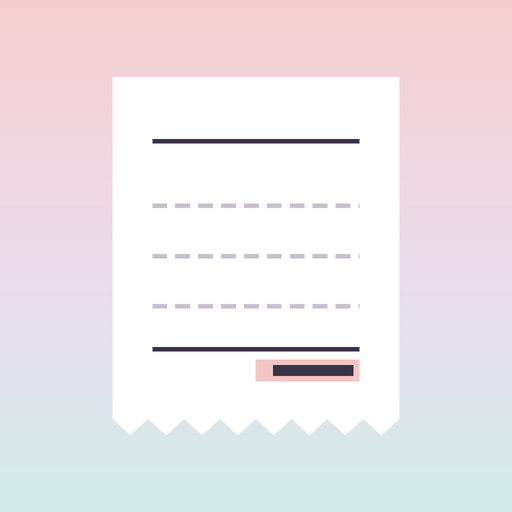
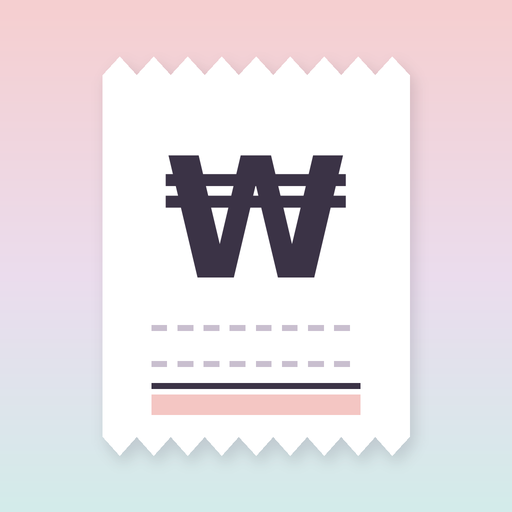
nono 4차: 해지 알림, 페이 칸, 금액 크게, 연 단위 날짜, 흐린 표시, 새 아이콘
Claude-Session: https://claude.ai/code/session_017xK88jtzivaej2xvhQo6jq

Changed region(s): [[0.1875, 0.0938, 0.8125, 0.9062], [0.2812, 0.25, 0.7188, 0.5625]]

diff --git a/index.html b/index.html
@@ -22,7 +22,7 @@ button{cursor:pointer;background:none;border:none;padding:0;border-radius:0}
 button:disabled{cursor:default}
 input{border:none;outline:none;background:transparent;padding:0;border-radius:0;min-width:0}
 input:disabled{color:var(--dash)}
-input::placeholder{color:var(--faint)}
+input::placeholder{color:#C4BCCB}
 [hidden]{display:none!important}
 .mono{font-family:var(--mono)}
 #app{max-width:480px;margin:0 auto;min-height:100vh;min-height:100dvh;position:relative;padding-bottom:calc(76px + env(safe-area-inset-bottom,0px))}
@@ -48,11 +48,11 @@ mask-position:top,center,bottom;mask-repeat:round no-repeat,no-repeat,round no-r
 .bt{text-align:center;font-family:var(--mono);font-size:12px;letter-spacing:3px;margin-bottom:12px}
 .bd{display:table;margin:0 auto;font-family:var(--mono);font-size:12px;color:var(--sub);position:relative;padding:0 3px}
 .bd.past{background:var(--hl);color:var(--ink)}
-.big{display:flex;justify-content:center;align-items:baseline;gap:4px;padding:8px 0 2px;min-height:62px}
-.big input{font-family:var(--mono);font-size:40px;font-weight:600;text-align:center;max-width:100%;height:52px}
-.big input:placeholder-shown{font-family:var(--sans);font-size:17px;font-weight:400;width:100%!important}
+.big{display:flex;justify-content:center;align-items:baseline;gap:6px;padding:10px 0 4px;min-height:86px}
+.big input{font-family:var(--mono);font-size:58px;font-weight:600;letter-spacing:-2px;text-align:center;max-width:100%;height:76px}
+.big input:placeholder-shown{font-family:var(--sans);font-size:22px;font-weight:500;letter-spacing:0;width:100%!important}
 .big input:placeholder-shown+span{display:none}
-.big span{font-size:17px}
+.big span{font-size:22px;font-weight:600}
 .cut{border-top:1px dashed var(--ink);margin:14px 0 4px}
 .types{display:flex;justify-content:space-between;gap:4px;padding:6px 0;border-bottom:1px solid var(--ink)}
 .types button{height:40px;padding:0 4px;font-size:14px;color:var(--sub)}
@@ -110,8 +110,10 @@ mask-position:top,center,bottom;mask-repeat:round no-repeat,no-repeat,round no-r
 .row .s{display:block;font-size:12px;color:var(--sub);margin-top:1px}
 .row .a{font-family:var(--mono);font-size:15px;font-weight:600;white-space:nowrap;text-align:right}
 .row .a small{display:block;font-family:var(--sans);font-size:12px;font-weight:400;margin-top:1px}
-.row .d{font-family:var(--mono);font-size:14px;font-weight:600;width:34px;flex:none}
-.row.mv .a,.row.off,.row.off .s{color:var(--faint)}
+.row .d{font-family:var(--mono);font-size:15px;font-weight:600;width:36px;flex:none;line-height:1.1}
+.row .d small{display:block;font-family:var(--sans);font-size:11px;font-weight:500;color:var(--sub)}
+.row.mv .a{color:var(--faint)}
+.row.off{opacity:.38}
 /* 한 줄 목록: 종류｜이름 ······ 금액 */
 .ln{display:flex;align-items:center;min-height:46px;gap:6px}
 .ln .ck{width:30px;height:46px;flex:none;display:flex;align-items:center;justify-content:flex-start}
@@ -217,6 +219,7 @@ const TL={지출:'지출',수입:'수입',이체:'이체',돌려받음:'회수'}
 const KINDS=['계좌','카드','대출'];
 /* 예전 종류 이름은 읽을 때 새 이름으로 */
 const KIND=k=>({예금계좌:'계좌',주식계좌:'계좌',현금:'계좌',기타:'계좌',체크카드:'카드',신용카드:'카드'})[k]||k;
+const PAYS=[['','없음'],['네이버페이','네이버페이'],['카카오페이','카카오페이'],['토스페이','토스페이']];
 const INSTS=[[null,'일시불'],[2,'2'],[3,'3'],[6,'6'],[12,'12개월']];
 const TINT=['#F4C6C3','#E3D5EC','#A8DCDE','#F7DCD7','#CFEBEA','#E5E7CB','#C9BFCF','#F2D7B6','#D6E4F5','#EBC9D9'];
 const DEF_OUT=['식비','카페·디저트','장보기','교통','쇼핑','구독','생활','이자','기타'],DEF_IN=['원고료','기타 수입'];
@@ -260,7 +263,7 @@ async function refresh(first){
   try{await loadBase();await stampDue();await loadTx()}
   catch(e){toast(e.message);if(/로그인/.test(e.message)){await Core.logout();show()}return}
   render();
-  if(first)askSoon();
+  if(first)alertSoon();
 }
 
 /* ---------- 정기결제: 날짜 계산·자동 찍기 ---------- */
@@ -288,21 +291,21 @@ async function stampDue(){
     const from=r.last_on?nextDay(r.last_on):r.start_on;if(from>t)continue;
     const ds=dueDates(r,from,t);
     if(!await claim(r,t)||!ds.length)continue;
-    await q('nono_tx',{method:'POST',headers:{Prefer:'return=minimal'},body:JSON.stringify(ds.map(d=>({day:d,type:'지출',amount:r.amount,vendor:r.vendor||r.name,category_id:r.category_id,account_id:r.account_id,recurring_id:r.id})))});
+    await q('nono_tx',{method:'POST',headers:{Prefer:'return=minimal'},body:JSON.stringify(ds.map(d=>({day:d,type:'지출',amount:r.amount,vendor:r.vendor||r.name,category_id:r.category_id,account_id:r.account_id,via:r.via||null,recurring_id:r.id})))});
     n+=ds.length;
   }
   if(n)toast(`정기결제 ${n}건을 찍었어요`);
 }
 function nextDue(r){const t=today(),from=r.last_on&&r.last_on>=t?nextDay(r.last_on):nextDay(t);return dueDates(r,from,addDays(t,120))[0]||null}
-/* 결제일 3일 전: 앱을 열 때 유지할지 물어보기 (한 번 답하면 그 회차는 다시 안 물음) */
-function askSoon(){
-  const lim=addDays(today(),3);
-  S.asks=S.rec.filter(r=>r.active).map(r=>({r,d:nextDue(r)})).filter(x=>x.d&&x.d<=lim&&!LS.get(`ask:${x.r.id}:${x.d}`));
+/* 해지 알림: 알림을 켠 정기결제만, 다음 결제 이틀 전부터 앱을 열면 한 번 팝업 (본 회차는 서버 alerted_on에 기억) */
+function alertSoon(){
+  const lim=addDays(today(),2);
+  S.asks=S.rec.filter(r=>r.active&&r.cancel_alert).map(r=>({r,d:nextDue(r)})).filter(x=>x.d&&x.d<=lim&&x.r.alerted_on!==x.d);
   if(S.asks.length&&!S.pop)openPop({k:'ask'});
 }
 
 /* ---------- 입력 양식 (Quick·Month 새 기록·수정이 같이 씀) ---------- */
-const blank=()=>({type:'지출',day:today(),amount:'',vendor:'',cat:null,acct:LS.get('acct',null),to:null,inst:null,back:'',parent:null,memo:'',add:null,addKind:'카드',touched:false});
+const blank=()=>({via:'',type:'지출',day:today(),amount:'',vendor:'',cat:null,acct:LS.get('acct',null),to:null,inst:null,back:'',parent:null,memo:'',add:null,addKind:'카드',touched:false});
 let F=blank();
 function accLabel(id){const a=accOf(id);return a?a.name:'—'}
 function chipList(list,cur,key,extra='',dis){
@@ -314,7 +317,9 @@ function addRow(f,key){
     (key==='cat'?'':`<div class="kinds">${['계좌','카드'].map(k=>`<button type="button" data-akind="${k}" class="${f.addKind===k?'on':''}">${k}</button>`).join('')}</div>`)+`</div>`;
 }
 const amtW=v=>v?(String(v).length+.4)+'ch':'100%';
-function bigAmt(f,pre){const v=f.amount?fmt(f.amount):'';return `<div class="big"><input id="${pre}-amt" data-in="amount" inputmode="numeric" placeholder="금액을 입력하세요." aria-label="금액" value="${v}" style="width:${amtW(v)}"><span>원</span></div>`}
+/* Quick 금액: 길어지면 글자를 조금씩 줄여 한 줄에 */
+const amtFS=(v,pre)=>pre!=='q'||!v?'':(String(v).length<=9?58:String(v).length<=11?48:40)+'px';
+function bigAmt(f,pre){const v=f.amount?fmt(f.amount):'';return `<div class="big"><input id="${pre}-amt" data-in="amount" inputmode="numeric" placeholder="금액을 입력하세요." aria-label="금액" value="${v}" style="width:${amtW(v)};font-size:${amtFS(v,pre)}"><span>원</span></div>`}
 function fieldsHtml(f,pre,quick){
   const t=f.type,keep=a=>a.id===f.acct||a.id===f.to;
   const acc=accsSorted().filter(a=>quick?(inQuick(a)||keep(a)):true).map(a=>[a.id,a.name]);
@@ -334,6 +339,7 @@ function fieldsHtml(f,pre,quick){
   const al=quick?'계좌':{지출:'계좌',수입:'들어온 곳',이체:'보낸 곳',돌려받음:'받은 곳'}[t];
   h+=`<div class="fr top"><span class="k">${al}</span><div class="chips">${chipList(acc,f.acct,'acct')}${addRow(f,'acct')}</div></div>`;
   if(t==='이체')h+=`<div class="fr top"><span class="k">받은 곳</span><div class="chips">${chipList(acc.filter(x=>x[0]!==f.acct),f.to,'to')}</div></div>`;
+  h+=`<div class="fr top"><span class="k">페이</span><div class="chips">${chipList(PAYS,f.via||'','via')}</div></div>`;
   if(card)h+=`<div class="fr"><span class="k">할부</span><div class="chips">${chipList(INSTS,f.inst,'inst','mono')}</div></div>`;
   if(t==='지출')h+=`<div class="fr"><label for="${pre}-back">미수금</label><input id="${pre}-back" class="mono" data-in="back" inputmode="numeric" value="${f.back?fmt(f.back):''}" placeholder="없으면 비워두기"></div>`;
   h+=`<div class="fr"><label for="${pre}-memo">메모</label><input id="${pre}-memo" data-in="memo" value="${esc(f.memo)}" placeholder="입력"></div>`;
@@ -357,7 +363,7 @@ function bindForm(box,f,re,amtId){
     const i=e.target,k=i.dataset.in;if(!k)return;
     if(k==='amount'||k==='back'){const d=i.value.replace(/\D/g,'').slice(0,12);f[k]=d;i.value=d?fmt(d):''}
     else f[k]=i.value;
-    if(k==='amount')i.style.width=amtW(i.value);
+    if(k==='amount'){i.style.width=amtW(i.value);i.style.fontSize=amtFS(i.value,i.id.split('-')[0])}
     if(k==='vendor')sug.open(i,f,re);
   });
   box.addEventListener('keydown',async e=>{
@@ -403,7 +409,7 @@ const sug={box:$('#sug'),list:[],i:-1,f:null,re:null,
     if(e.key==='Enter'&&this.i>=0){e.preventDefault();this.pick(this.list[this.i]);return true}
     if(e.key==='Escape'){this.close();return true}return false},
   pick(k){const f=this.f,v=S.vend.get(k);f.vendor=k;
-    if(v&&f.type!=='이체'&&v.type===f.type){if(!f.touched&&v.category_id&&catOf(v.category_id))f.cat=v.category_id;if(v.account_id&&accOf(v.account_id))f.acct=v.account_id}
+    if(v&&f.type!=='이체'&&v.type===f.type){if(!f.touched&&v.category_id&&catOf(v.category_id))f.cat=v.category_id;if(v.account_id&&accOf(v.account_id))f.acct=v.account_id;f.via=v.via||''}
     this.close();this.re()},
   close(){this.box.hidden=true;this.list=[]}};
 sug.box.addEventListener('pointerdown',e=>{e.preventDefault();const b=e.target.closest('[data-j]');if(b)sug.pick(sug.list[+b.dataset.j])});
@@ -417,7 +423,7 @@ function toRow(f){
   const a=accOf(f.acct);
   return{day:f.day,type:t,amount,vendor:f.vendor.trim()||null,
     category_id:t==='이체'?null:(par?par.category_id||null:f.cat),
-    account_id:f.acct,to_account_id:t==='이체'?f.to:null,
+    account_id:f.acct,to_account_id:t==='이체'?f.to:null,via:t==='지출'||t==='돌려받음'?(f.via||null):null,
     inst:t==='지출'&&a&&a.kind==='카드'&&f.inst>1?f.inst:null,
     back:t==='지출'?Math.min(num(f.back),amount):0,
     parent_id:t==='돌려받음'?(f.parent||null):null,memo:f.memo.trim()||null};
@@ -474,7 +480,7 @@ const short=v=>v>=10000?Math.round(v/10000)+'만':fmt(v);
 function catColor(id){const c=catOf(id);if(!c)return '#DDD5E0';return TINT[catsOf(c.kind).indexOf(c)%TINT.length]}
 function metaOf(r){
   const c=catOf(r.category_id),p=r.parent_id&&txOf(r.parent_id),rc=r.recurring_id&&recOf(r.recurring_id);
-  return [r.type==='이체'?`${accLabel(r.account_id)} → ${accLabel(r.to_account_id)}`:'',c?c.name:'',r.type!=='이체'?accLabel(r.account_id):'',r.inst>1?r.inst+'개월 할부':'',p?'← '+(p.vendor||'지출'):'',r.type==='돌려받음'&&!p?'회수':'',rc?'정기결제':''].filter(Boolean).join(' · ');
+  return [r.type==='이체'?`${accLabel(r.account_id)} → ${accLabel(r.to_account_id)}`:'',c?c.name:'',r.type!=='이체'?accLabel(r.account_id):'',r.via||'',r.inst>1?r.inst+'개월 할부':'',p?'← '+(p.vendor||'지출'):'',r.type==='돌려받음'&&!p?'회수':'',rc?'정기결제':''].filter(Boolean).join(' · ');
 }
 const sign=r=>r.type==='수입'||r.type==='돌려받음'?'+':'';
 const amtText=r=>r.amount==null?'금액?':sign(r)+fmt(r.amount);
@@ -499,7 +505,7 @@ function moveMonth(n){
 
 /* ---------- Subscript ---------- */
 const EVERY={월:'매월',격월:'격월',년:'매년'};
-function recWhen(r){return r.every==='년'?`${r.month||'?'}.${r.day===0?'말일':r.day}`:(r.day===0?'말일':String(r.day).padStart(2,'0'))}
+function recWhen(r){const d=r.day===0?'말일':String(r.day).padStart(2,'0');return r.every==='년'?`<small>${r.month||'?'}월</small>${d}`:d}
 function everyText(r){return r.every==='격월'?`격월(${(r.month||1)%2?'홀수':'짝수'} 달)`:EVERY[r.every]||'매월'}
 function recStatus(r){
   const ym=today().slice(0,7),t=today(),y=+ym.slice(0,4),m=+ym.slice(5);
@@ -508,7 +514,7 @@ function recStatus(r){
   if(tx)return tx.amount==null?['금액 채우기',1]:['이번 달 찍힘',0];
   if(!hits(r,y,m)){const n=nextDue(r);return[n?+n.slice(5,7)+'월에':'—',0]}
   const ds=dueDates(r,ym+'-01',ym+'-31');
-  if(ds.length&&ds[0]>t)return[r.last_on&&r.last_on>=ds[0]?'이번만 건너뜀':md(ds[0])+' 예정',0];
+  if(ds.length&&ds[0]>t)return[md(ds[0])+' 예정',0];
   return['—',0];
 }
 function renderS(){
@@ -519,7 +525,7 @@ function renderS(){
     <div class="sum"><div><div>매달 고정액</div><div>${fmt(fixed)}</div></div><div><div>금액 변동</div><div>${vary}<small>건</small></div></div></div>
     <div class="cut"></div>
     ${list.map(r=>{const [st,h]=recStatus(r);
-      return `<button class="row ${r.active?'':'off'}" data-rec="${r.id}"><span class="d">${recWhen(r)}</span><span class="t"><span class="v">${esc(r.name)}</span><span class="s">${esc([everyText(r),r.account_id?accLabel(r.account_id):''].filter(Boolean).join(' · '))}</span></span><span class="a">${r.amount==null?'변동':fmt(r.amount)}<small>${h?`<span class="hlw">${st}</span>`:st}</small></span></button>`}).join('')||'<div class="empty">정기결제가 없어요</div>'}
+      return `<button class="row ${r.active?'':'off'}" data-rec="${r.id}"><span class="d">${recWhen(r)}</span><span class="t"><span class="v">${esc(r.name)}</span><span class="s">${esc([everyText(r),r.account_id?accLabel(r.account_id):'',r.via,r.cancel_alert&&r.active?'해지 알림':''].filter(Boolean).join(' · '))}</span></span><span class="a">${r.amount==null?'변동':fmt(r.amount)}<small>${h?`<span class="hlw">${st}</span>`:st}</small></span></button>`}).join('')||'<div class="empty">정기결제가 없어요</div>'}
     <button class="sub" data-rec="">ADD</button>`);
 }
 
@@ -570,7 +576,7 @@ async function reorder(list,id,dir,table){
 
 /* ---------- 팝업 ---------- */
 function openPop(p){S.pop=p;drawPop();$('#ov').hidden=false;$('#ov').scrollTop=0}
-function closePop(){const k=S.pop&&S.pop.k;S.pop=null;$('#ov').hidden=true;sug.close();if(k==='ask')setTimeout(askSoon,0)}
+function closePop(){S.pop=null;$('#ov').hidden=true;sug.close()}
 function drawPop(){const k=S.pop&&S.pop.k;({tx:drawTx,acc:drawAcc,rec:drawRec,cat:drawCat,ask:drawAsk})[k]()}
 const head=(l,btn)=>`<div class="strip"></div><div class="ch">${l}${btn||''}</div>`;
 const delBtn=attr=>`<button class="ic" ${attr} aria-label="삭제" title="삭제"><svg><use href="#i-del"/></svg></button>`;
@@ -583,6 +589,7 @@ function drawTx(){
     const par=r.parent_id&&txOf(r.parent_id),ks=kids(r.id);
     const fl=[['분류',(catOf(r.category_id)||{}).name||'—'],
       [r.type==='이체'?'보낸 곳 → 받은 곳':{지출:'계좌',수입:'들어온 곳',돌려받음:'받은 곳'}[r.type],r.type==='이체'?`${accLabel(r.account_id)} → ${accLabel(r.to_account_id)}`:accLabel(r.account_id)]];
+    if(r.via)fl.push(['페이',r.via]);
     if(r.inst>1)fl.push(['할부',r.inst+'개월']);
     if(r.type==='지출')fl.push(['미수금',r.back?`${fmt(r.back)} 중 ${fmt(got(r.id))} 받음`+(left(r)?` · <span class="hlw">${fmt(left(r))} 남음</span>`:''):(r.amount==null?'<span class="hlw">금액을 채워 주세요</span>':'—'),1]);
     ks.forEach(k=>fl.push(['회수',`${esc(k.vendor||'—')} · ${md(k.day)} · ${fmt(k.amount)}`,1]));
@@ -604,7 +611,7 @@ function drawTx(){
 }
 function txEdit(){
   const r=txOf(S.pop.id);
-  S.pop.f=Object.assign(blank(),{type:r.type,day:r.day,amount:r.amount==null?'':String(r.amount),vendor:r.vendor||'',cat:r.category_id,acct:r.account_id,to:r.to_account_id,inst:r.inst,back:r.back?String(r.back):'',parent:r.parent_id,memo:r.memo||'',touched:true,self:r.id});
+  S.pop.f=Object.assign(blank(),{type:r.type,day:r.day,amount:r.amount==null?'':String(r.amount),vendor:r.vendor||'',cat:r.category_id,acct:r.account_id,to:r.to_account_id,inst:r.inst,back:r.back?String(r.back):'',parent:r.parent_id,memo:r.memo||'',via:r.via||'',touched:true,self:r.id});
   drawTx();
 }
 async function txSave(){
@@ -690,19 +697,21 @@ function drawRec(){
     <div class="fr"><label for="r-ven">거래처</label><input id="r-ven" data-rf="vendor" value="${esc(f.vendor)}" placeholder="비우면 이름으로"></div>
     <div class="fr top"><span class="k">분류</span><div class="chips">${chipList(cats,f.category_id,'rcat')}</div></div>
     <div class="fr top"><span class="k">계좌</span><div class="chips">${chipList(acc,f.account_id,'racc')}</div></div>
+    <div class="fr top"><span class="k">페이</span><div class="chips">${chipList(PAYS,f.via||'','rvia')}</div></div>
     <div class="fr"><span class="k">주기</span><div class="chips">${chipList([['월','매월'],['격월','격월'],['년','매년']],f.every,'revery')}</div></div>`;
   if(f.every!=='월')h+=`<div class="fr"><label for="r-mon" style="width:120px">${f.every==='년'?'몇 월':'내는 달 하나'}</label><input id="r-mon" class="mono" data-rf="month" inputmode="numeric" value="${f.month||''}" placeholder="${f.every==='년'?'1~12':'예: 1 → 1·3·5…월'}"></div>`;
-  h+=`<div class="fr"><label for="r-day">며칠</label><input id="r-day" class="mono" data-rf="day" inputmode="numeric" value="${f.day&&!f.last?f.day:''}" placeholder="1~31"${f.last?' disabled':''}><div class="chips" style="flex:none;margin-left:6px">${chipList([[1,'말일']],f.last?1:'','rlast')}</div></div>
+  h+=`<div class="fr"><label for="r-day">며칠</label><input id="r-day" class="mono" data-rf="day" inputmode="numeric" value="${f.day||''}" placeholder="1~31"></div>
+    <div class="fr"><span class="k">해지 알림</span><div class="chips"><button type="button" data-pick="ralert" class="${f.cancel_alert?'on':''}">${f.cancel_alert?'✓ ':''}결제 이틀 전에 알려 주기</button></div></div>
     <div class="fr"><span class="k">상태</span><div class="chips">${chipList([[1,'켜 둠'],[0,'꺼 둠']],f.active?1:0,'ract')}</div></div>`;
   $('#card').innerHTML=head(`<span class="mono">${isNew?'새 정기결제':'정기결제'}</span>`,isNew?'':delBtn('data-rdel'))+
-    `<div class="eb">${h}<p class="note">${isNew?'내일부터 날짜가 되면 자동으로 찍혀요. 이번 달에 이미 지난 것은 Quick에서 적어 주세요.':'고쳐도 이미 찍힌 기록은 그대로예요.'} 결제일 3일 전에는 앱을 열 때 유지할지 물어봐요.</p>
+    `<div class="eb">${h}<p class="note">${isNew?'내일부터 날짜가 되면 자동으로 찍혀요. 이번 달에 이미 지난 것은 Quick에서 적어 주세요.':'고쳐도 이미 찍힌 기록은 그대로예요.'} 31일로 적으면 짧은 달은 마지막 날에 찍혀요.</p>
     <div class="two"><button class="sec" data-pclose>취소</button><button class="pri" data-rsave>저장</button></div></div>`;
 }
 async function recSave(){
   const f=S.pop.f,name=f.name.trim();if(!name){toast('이름을 넣어 주세요');return}
-  const day=f.last?0:num(f.day);if(!f.last&&(day<1||day>31)){toast('며칠인지 넣어 주세요 (1~31)');return}
+  const day=num(f.day);if(day<1||day>31){toast('며칠인지 넣어 주세요 (1~31)');return}
   const month=f.every==='월'?null:num(f.month);if(f.every!=='월'&&(month<1||month>12)){toast(f.every==='년'?'몇 월인지 넣어 주세요':'내는 달 하나를 넣어 주세요 (1~12)');return}
-  const row={name,vendor:f.vendor.trim()||null,amount:f.amount?num(f.amount):null,category_id:f.category_id||null,account_id:f.account_id||null,every:f.every,day,month,active:!!f.active};
+  const row={name,vendor:f.vendor.trim()||null,amount:f.amount?num(f.amount):null,category_id:f.category_id||null,account_id:f.account_id||null,via:f.via||null,every:f.every,day,month,active:!!f.active,cancel_alert:!!f.cancel_alert};
   try{
     if(S.pop.id)await q('nono_recurring?id=eq.'+S.pop.id,{method:'PATCH',body:JSON.stringify(row)});
     else{row.sort=nextSort(S.rec);row.start_on=nextDay(today());row.last_on=today();await q('nono_recurring',{method:'POST',headers:{Prefer:'return=minimal'},body:JSON.stringify(row)})}
@@ -714,24 +723,20 @@ async function recDel(){
   try{await q('nono_recurring?id=eq.'+r.id,{method:'DELETE'});S.rec=S.rec.filter(x=>x.id!==r.id);closePop();keepScroll(render)}catch(e){toast(e.message)}
 }
 
-/* 결제일 3일 전 물어보기 */
+/* 해지 알림 팝업 */
 function drawAsk(){
   const x=S.asks[0];if(!x){closePop();return}
   const r=x.r,n=Math.round((Date.parse(x.d)-Date.parse(today()))/864e5);
-  $('#card').innerHTML=head(`<span class="mono">곧 결제돼요 · ${md(x.d)} (${n===1?'내일':n+'일 뒤'})</span>`)+
+  $('#card').innerHTML=head(`<span class="mono">해지 알림 · ${md(x.d)} 결제 예정 (${n<=1?'내일':n+'일 뒤'})</span>`)+
     `<div class="vb"><div class="vn">${esc(r.name)}</div><div class="va">${r.amount==null?'변동':fmt(r.amount)+'원'}</div>
-    <div class="fl"><div><span>계좌</span><span>${esc(r.account_id?accLabel(r.account_id):'—')}</span></div><div><span>주기</span><span>${everyText(r)}</span></div></div>
-    <p class="q">이 정기결제를 계속 유지할까요?</p>
-    <div class="two t3"><button class="sec" data-ask="stop">해지</button><button class="sec" data-ask="skip">이번만 건너뛰기</button><button class="pri" data-ask="keep">유지</button></div></div>`;
+    <div class="fl"><div><span>계좌</span><span>${esc([r.account_id?accLabel(r.account_id):'—',r.via].filter(Boolean).join(' · '))}</span></div><div><span>주기</span><span>${everyText(r)}</span></div></div>
+    <p class="q">해지할 생각이었다면 결제일 전에 해지하세요.</p>
+    <div class="two"><button class="sec" data-ask="stop">해지했어요</button><button class="pri" data-ask="keep">계속 쓸게요</button></div></div>`;
 }
 async function answer(a){
-  const x=S.asks.shift(),r=x.r;
-  try{
-    if(a==='stop'){if(!confirm(`'${r.name}'을(를) 꺼 둘까요? (나중에 Subscript에서 다시 켤 수 있어요)`)){S.asks.unshift(x);return}
-      await q('nono_recurring?id=eq.'+r.id,{method:'PATCH',body:JSON.stringify({active:false})});r.active=false;toast(`${r.name} 꺼 뒀어요`)}
-    else if(a==='skip'){if(await claim(r,x.d))toast(`${r.name} 이번 회차는 안 찍어요`)}
-    LS.set(`ask:${r.id}:${x.d}`,a);
-  }catch(e){toast(e.message)}
+  const x=S.asks.shift(),r=x.r,row={alerted_on:x.d};
+  if(a==='stop'){if(!confirm(`'${r.name}'을(를) 꺼 둘까요? 다음부터 자동으로 찍히지 않아요.\n(Subscript에서 다시 켤 수 있어요)`)){S.asks.unshift(x);return}row.active=false}
+  try{await q('nono_recurring?id=eq.'+r.id,{method:'PATCH',body:JSON.stringify(row)});Object.assign(r,row);if(a==='stop')toast(`${r.name} 꺼 뒀어요`)}catch(e){toast(e.message)}
   if(S.asks.length)drawAsk();else{S.pop=null;$('#ov').hidden=true}
   keepScroll(render);
 }
@@ -739,7 +744,7 @@ async function answer(a){
 /* 팝업 안 동작 */
 $('#ov').addEventListener('click',async e=>{
   const p=S.pop;if(!p)return;
-  if(e.target===$('#ov')){if((p.k==='tx'&&!p.f)||p.k==='ask'||p.k==='cat')closePop();return}
+  if(e.target===$('#ov')){if(p.k==='ask')answer('seen');else if((p.k==='tx'&&!p.f)||p.k==='cat')closePop();return}
   const b=e.target.closest('button');if(!b||b.disabled)return;const d=b.dataset;
   if('tedit'in d)txEdit();
   else if('tcancel'in d){if(p.id){p.f=null;sug.close();drawTx()}else closePop()}
@@ -756,7 +761,7 @@ $('#ov').addEventListener('click',async e=>{
   else if(d.cmove){const c=catOf(p.id);p.name=$('#c-name').value;await reorder(catsOf(c.kind),c.id,+d.cmove,'nono_category');drawCat();keepScroll(render)}
   else if(d.amove){const l=accsSorted();await reorder(l,p.id,+d.amove,'nono_account');keepScroll(render);toast('순서를 바꿨어요')}
   else if(d.pick&&p.k!=='tx'){const v=d.v,f=p.f;
-    ({akind:()=>f.kind=v,alink:()=>f.link_id=v||null,ahide:()=>f.hidden=v==='0',rcat:()=>f.category_id=f.category_id===v?null:v,racc:()=>f.account_id=v,revery:()=>f.every=v,rlast:()=>f.last=!f.last,ract:()=>f.active=v==='1'})[d.pick]();
+    ({akind:()=>f.kind=v,alink:()=>f.link_id=v||null,ahide:()=>f.hidden=v==='0',rcat:()=>f.category_id=f.category_id===v?null:v,racc:()=>f.account_id=v,revery:()=>f.every=v,ralert:()=>f.cancel_alert=!f.cancel_alert,rvia:()=>f.via=v||null,ract:()=>f.active=v==='1'})[d.pick]();
     drawPop()}
 });
 $('#ov').addEventListener('input',e=>{
@@ -787,7 +792,7 @@ $('#app').addEventListener('click',async e=>{
   if(d.open){openPop({k:'tx',id:d.open});return}
   if(d.qk){const a=accOf(d.qk);a.hidden=!a.hidden;keepScroll(renderA);try{await q('nono_account?id=eq.'+a.id,{method:'PATCH',body:JSON.stringify({hidden:a.hidden})})}catch(er){a.hidden=!a.hidden;keepScroll(renderA);toast(er.message)}return}
   if('acc'in d){const a=d.acc&&accOf(d.acc);openPop({k:'acc',id:d.acc||null,f:a?{name:a.name,kind:a.kind,link_id:a.link_id,pay_day:a.pay_day||'',base:a.base?String(a.base):'',value:a.value==null?'':String(a.value),hidden:a.hidden}:{name:'',kind:'카드',link_id:null,pay_day:'',base:'',value:'',hidden:false}});return}
-  if('rec'in d){const r=d.rec&&recOf(d.rec);openPop({k:'rec',id:d.rec||null,f:r?{name:r.name,vendor:r.vendor||'',amount:r.amount==null?'':String(r.amount),category_id:r.category_id,account_id:r.account_id,every:r.every||'월',day:r.day||'',last:r.day===0,month:r.month||'',active:r.active}:{name:'',vendor:'',amount:'',category_id:null,account_id:LS.get('acct',null),every:'월',day:'',last:false,month:'',active:true}});return}
+  if('rec'in d){const r=d.rec&&recOf(d.rec);openPop({k:'rec',id:d.rec||null,f:r?{name:r.name,vendor:r.vendor||'',amount:r.amount==null?'':String(r.amount),category_id:r.category_id,account_id:r.account_id,every:r.every||'월',day:r.day===0?31:(r.day||''),month:r.month||'',active:r.active,via:r.via||'',cancel_alert:!!r.cancel_alert}:{name:'',vendor:'',amount:'',category_id:null,account_id:LS.get('acct',null),every:'월',day:'',month:'',active:true,via:'',cancel_alert:false}});return}
   if(d.cat){openPop({k:'cat',id:d.cat,name:catOf(d.cat).name});return}
   if(d.cplus){S.catAdd=d.cplus;keepScroll(renderA);return}
 });

diff --git a/sw.js b/sw.js
@@ -1,5 +1,5 @@
 // nono 서비스 워커: 네트워크 우선 → 실패하면 캐시 (옛 버전이 남는 문제 방지). 같은 도메인 파일만 다뤄요.
-const C='nono-shell-3',A=['./','index.html','manifest.webmanifest','icon-192.png','icon-512.png','icon-maskable-512.png','apple-touch-icon.png'];
+const C='nono-shell-4',A=['./','index.html','manifest.webmanifest','icon-192.png','icon-512.png','icon-maskable-512.png','apple-touch-icon.png'];
 self.addEventListener('install',e=>{e.waitUntil(caches.open(C).then(c=>Promise.allSettled(A.map(u=>c.add(u)))).then(()=>self.skipWaiting()))});
 self.addEventListener('activate',e=>{e.waitUntil(caches.keys().then(k=>Promise.all(k.filter(x=>x.startsWith('nono-shell')&&x!=C).map(x=>caches.delete(x)))).then(()=>clients.claim()))});
 self.addEventListener('fetch',e=>{const r=e.request,u=new URL(r.url);if(r.method!='GET'||u.origin!=location.origin)return;
